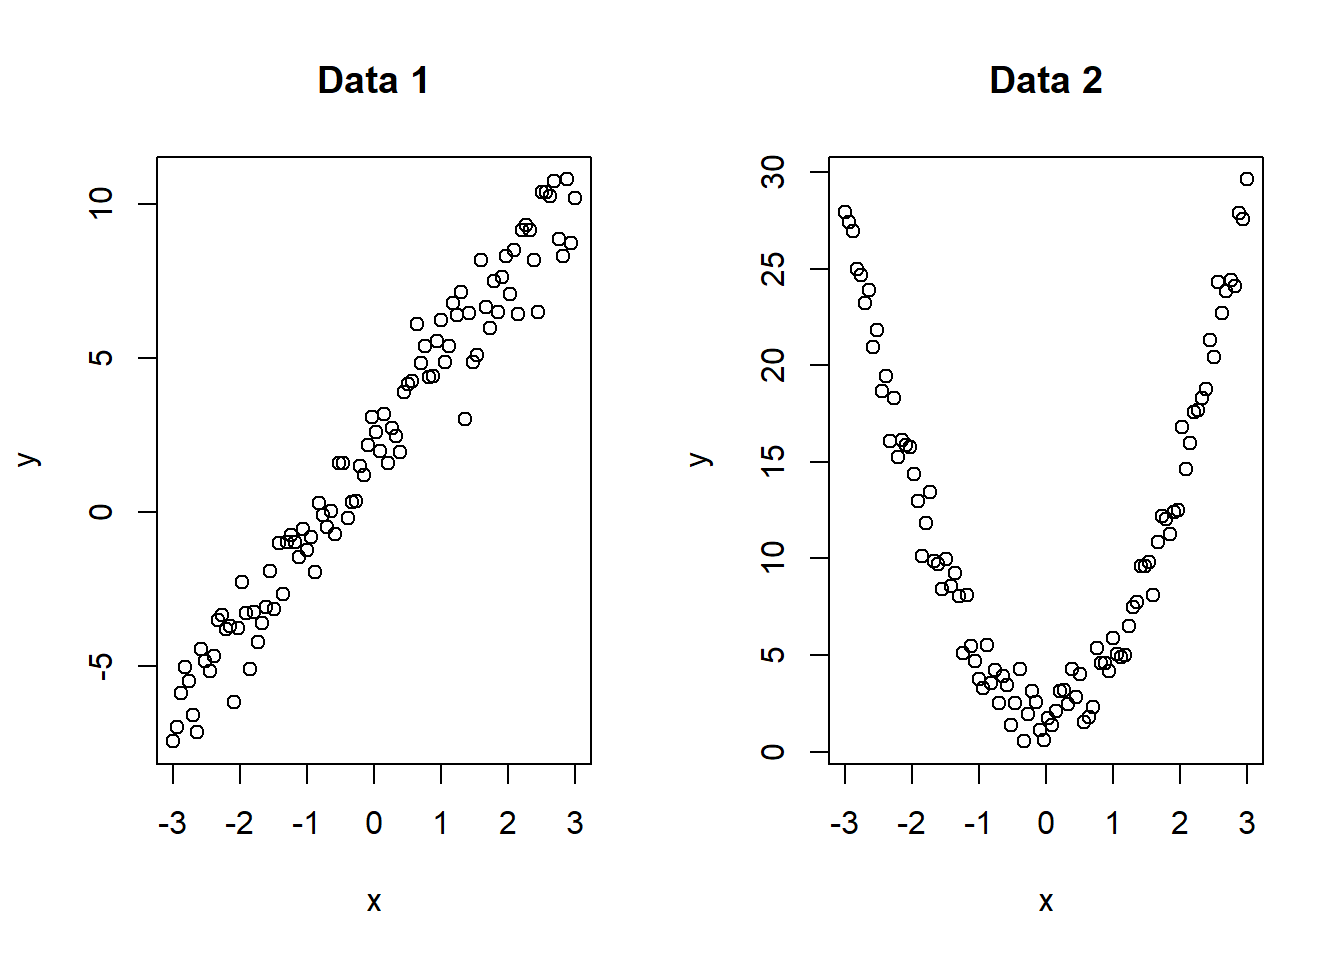
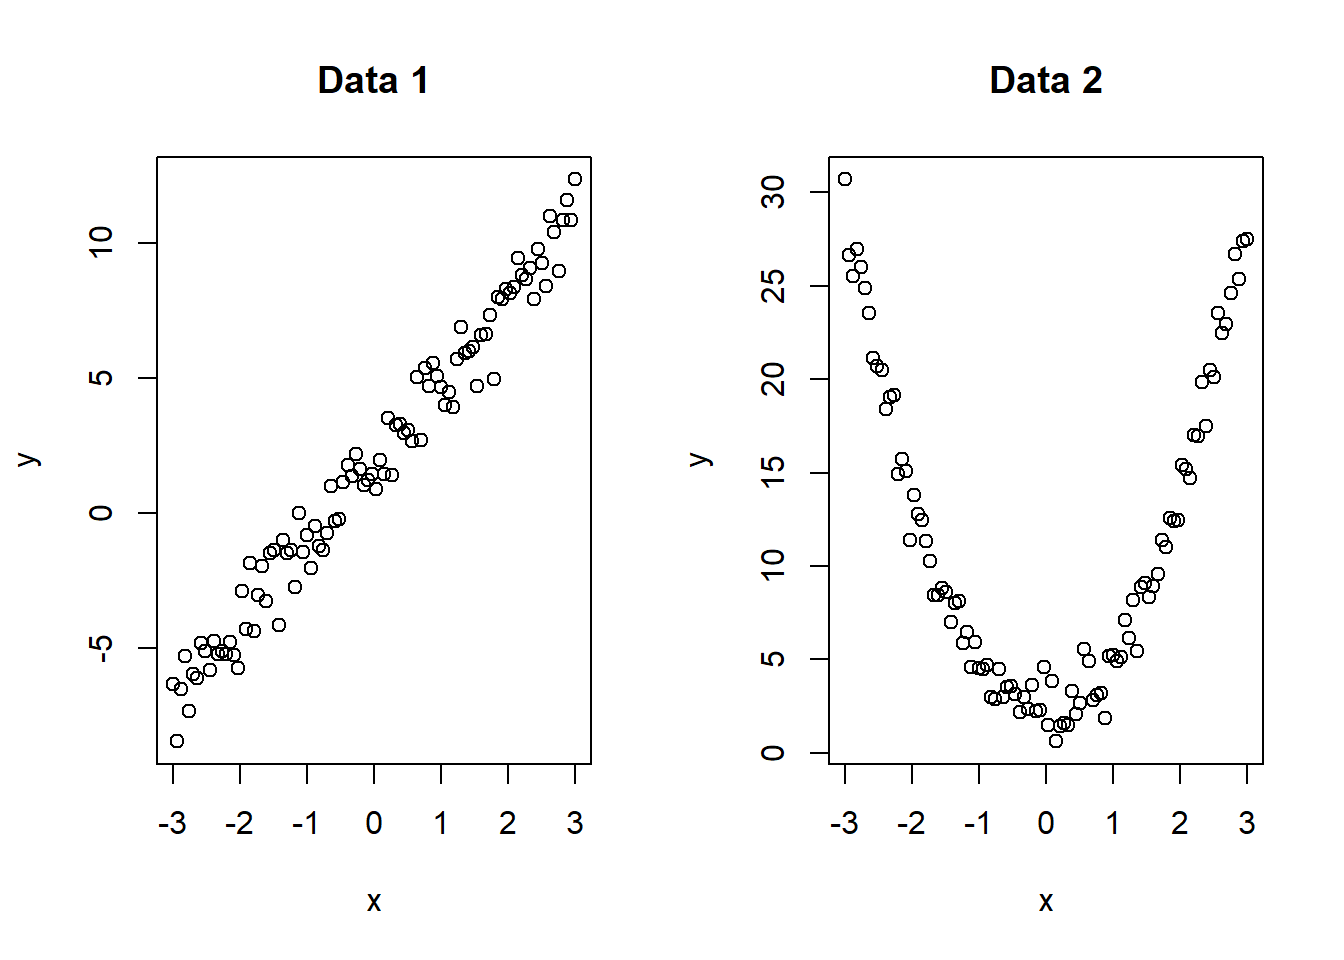
Built site for gh-pages

diff --git a/assignments/assignment2.html b/assignments/assignment2.html
@@ -194,7 +194,9 @@ window.Quarto = {
 <p><strong>(b)</strong> Apply a log transformation to the <strong>response</strong> using <code>log()</code>; then make a histogram and Normal Q–Q plot of <code>log(service score)</code>. Does the Normality look improved? Explain.</p>
 <p><strong>(c)</strong> Based on (a)–(b), is a <strong>log transform of the response</strong> a reasonable choice? Justify your answer briefly.</p>
 <p><strong>(d)</strong> Use the <strong>Box–Cox</strong> method to assess a suitable transformation for the <strong>response</strong> (use <code>MASS::boxcox()</code>). Report the <span class="math inline">\(\lambda\)</span> maximizing the profile and the 95% CI. State whether <span class="math inline">\(\lambda = 0\)</span> (log) is supported.</p>
-<p><strong>(e)</strong> Fit a simple linear regression with the <strong>log-transformed response</strong>: [ () ;=; _0+_1,()+. ] Report the fitted slope and provide a one-sentence interpretation on the original scale (i.e., multiplicative change in the <strong>median</strong> service score per unit increase in nurses).</p>
+<p><strong>(e)</strong> Fit a simple linear regression with the <strong>log-transformed response</strong>: <span class="math display">\[
+\log(\text{service score}) \;=\; \beta_0+\beta_1\,(\text{nurses})+\varepsilon.\]</span></p>
+<p>Report the fitted slope and provide a one-sentence interpretation on the original scale (i.e., multiplicative change in the <strong>median</strong> service score per unit increase in nurses).</p>
 <p><strong>(f)</strong> For the model in (e), plot <strong>residuals vs.&nbsp;fitted</strong> and the <strong>Normal Q–Q plot</strong> of residuals. Comment on linearity, constant variance, and Normality.</p>
 <p><strong>(g)</strong> Refit the model using <code>log10()</code> instead of <code>log()</code> for the response. Compare results from <code>log()</code> vs <code>log10()</code>. Are inferences different? (Hint: they should be numerically rescaled but <strong>substantively equivalent</strong>; explain why.)</p>
 <div style="page-break-after: always;"></div>
@@ -241,10 +243,10 @@ F-statistic: 188.2 on 1 and 39 DF,  p-value: &lt; 2.2e-16</code></pre>
 </section>
 <section id="hat-matrix-as-a-projection" class="level2">
 <h2 class="anchored" data-anchor-id="hat-matrix-as-a-projection">4. Hat matrix as a projection</h2>
-<p>In this problem, you will prove that the hat matrix (H) is a projection matrix by showting that it satsifies both (a) and (b). Recall [ H ;=; X,(X<sup>X)</sup>{-1}X^. ]</p>
-<p><strong>(a)</strong> Show that (H) is <strong>idempotent</strong>, i.e., (H^2 = H).</p>
-<p><strong>(b)</strong> Show that (H) is <strong>symmetric</strong>, i.e., (H^= H).</p>
-<p><em>Note.</em> A <strong>projection matrix</strong> satisfies (H^2=H). When, in addition, (H) is symmetric, it is the matrix of an <strong>orthogonal projection</strong> onto ((X)).</p>
+<p>In this problem, you will prove that the hat matrix <span class="math inline">\(H\)</span> is a projection matrix by showting that it satsifies both (a) and (b). Recall <span class="math display">\[H \;=\; X\,(X^\top X)^{-1}X^\top .\]</span></p>
+<p><strong>(a)</strong> Show that <span class="math inline">\(H\)</span> is <strong>idempotent</strong>, i.e., <span class="math inline">\(H^2 = H\)</span>.</p>
+<p><strong>(b)</strong> Show that <span class="math inline">\(H\)</span> is <strong>symmetric</strong>, i.e., <span class="math inline">\(H^\top = H\)</span>.</p>
+<p><em>Note.</em> A <strong>projection matrix</strong> satisfies <span class="math inline">\(H^2=H\)</span>. When, in addition, <span class="math inline">\(H\)</span> is symmetric, it is the matrix of an <strong>orthogonal projection</strong> onto <span class="math inline">\(\operatorname{col}(X)\)</span>.</p>
 </section>
 <section id="multiple-linear-regression-via-matrix-operations" class="level2">
 <h2 class="anchored" data-anchor-id="multiple-linear-regression-via-matrix-operations">5 . Multiple Linear Regression via Matrix Operations</h2>

diff --git a/lectures/06-lecture.html b/lectures/06-lecture.html
@@ -1189,11 +1189,11 @@ y^{(\lambda)} = \begin{cases}
 <h1 data-number="5"><span class="header-section-number">5</span> Conclusion</h1>
 <section id="conclusion-1" class="level2" data-number="5.1">
 <h2 data-number="5.1" class="anchored" data-anchor-id="conclusion-1"><span class="header-section-number">5.1</span> Conclusion</h2>
-<p><img src="images/clipboard-3789437798.png" class="img-fluid"></p>
+<p><img src="../images/clipboard-3789437798.png" class="img-fluid"></p>
 </section>
 <section id="conclusion-2" class="level2" data-number="5.2">
 <h2 data-number="5.2" class="anchored" data-anchor-id="conclusion-2"><span class="header-section-number">5.2</span> Conclusion</h2>
-<p><img src="images/clipboard-1476262165.png" class="img-fluid"></p>
+<p><img src="../images/clipboard-1476262165.png" class="img-fluid"></p>
 
 
 </section>
